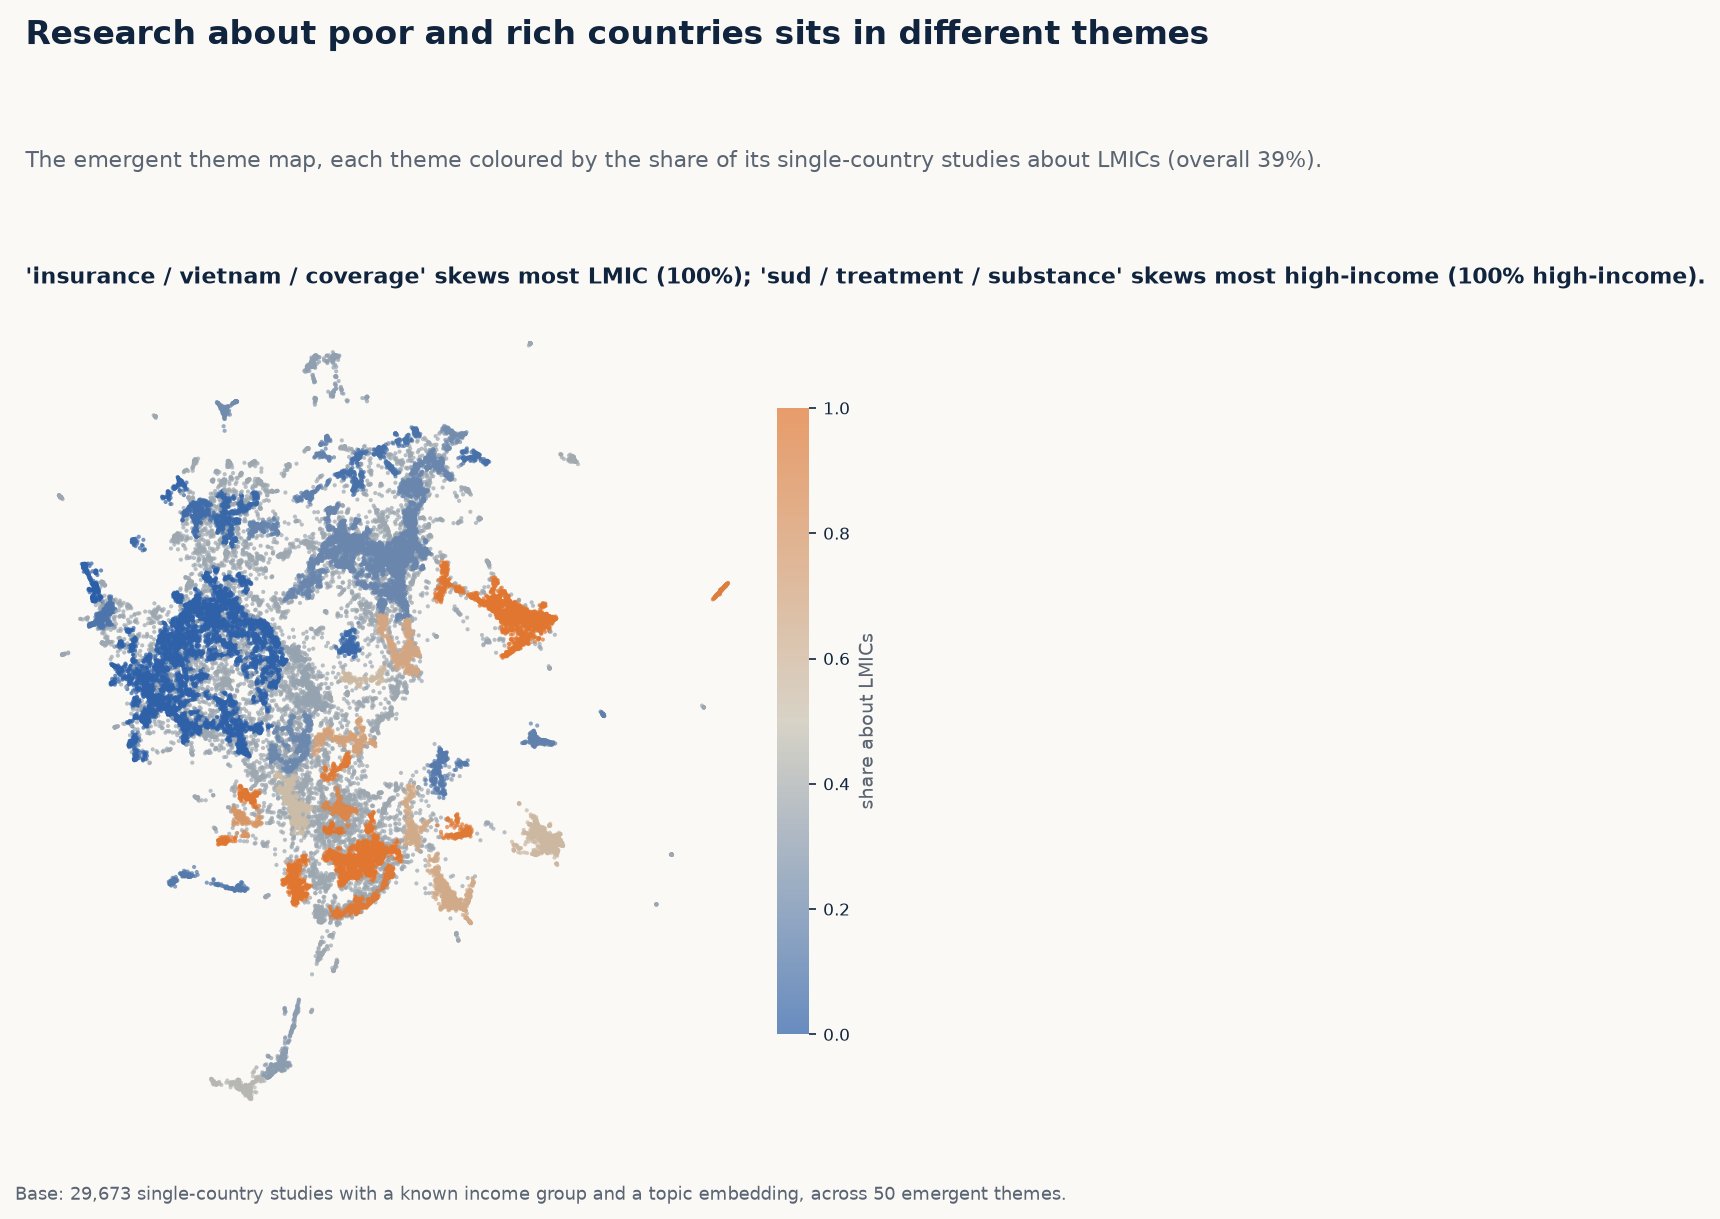
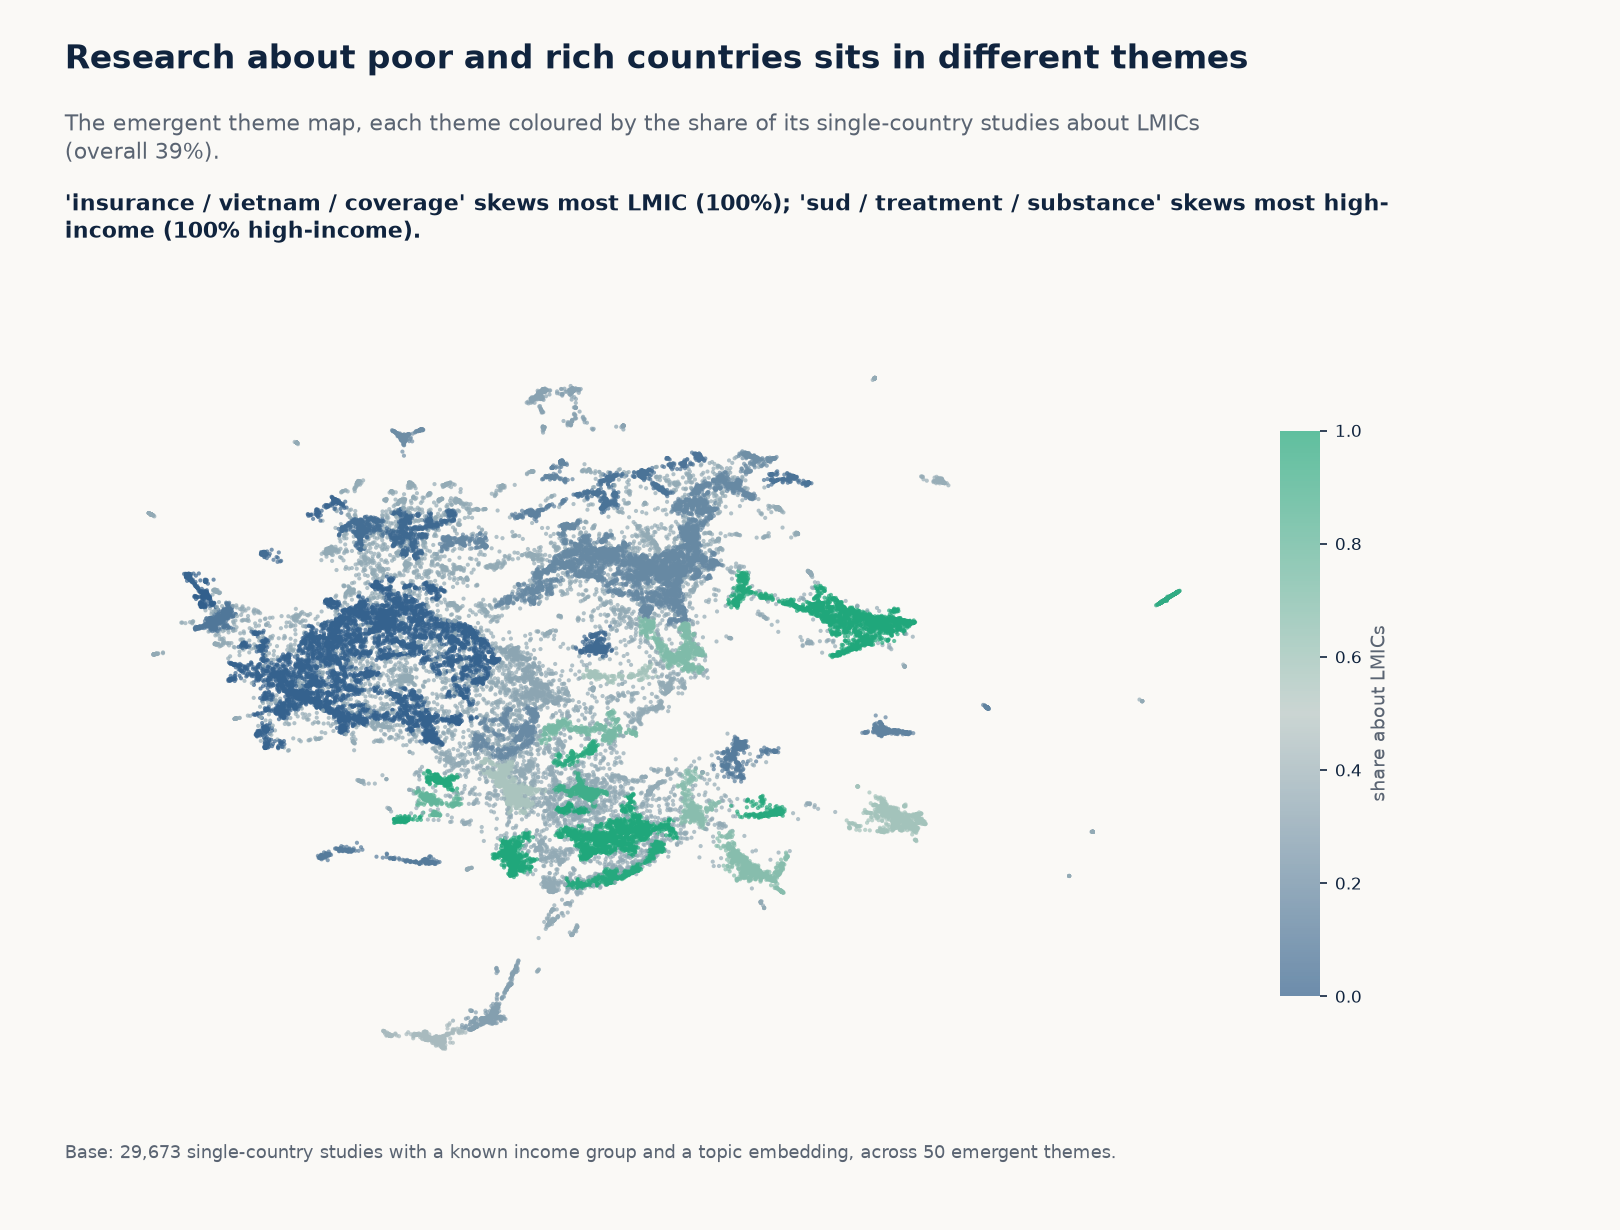
Updated notes in thematic analysis

diff --git a/docs/index.html b/docs/index.html
@@ -11,7 +11,7 @@
      versions with SHA-384 integrity hashes verified by double fetch. -->
 <link rel="stylesheet" href="https://cdn.jsdelivr.net/npm/tom-select@2.3.1/dist/css/tom-select.min.css" integrity="sha384-krui876Mk6M6Lq6uj1SQo+u4MoImxFwCfwzWNU982QBMNci3VMZ3FoYSdUakJD5I" crossorigin="anonymous">
 <link rel="stylesheet" href="https://cdn.jsdelivr.net/npm/nouislider@15.8.1/dist/nouislider.min.css" integrity="sha384-PSZaVsyG9jDu8hFaSJev5s/9poIJlX7cuxSGdqCgXRHpo2DzIaZAyCd2rG/DJJmV" crossorigin="anonymous">
-<link rel="stylesheet" href="styles.css?v=2026-10-07m">
+<link rel="stylesheet" href="styles.css?v=2026-10-07o">
 </head>
 <body>
 
@@ -668,7 +668,7 @@
 <script src="https://cdn.jsdelivr.net/npm/plotly.js-dist-min@2.35.2/plotly.min.js" integrity="sha384-cCVCZkAjYNxaYKbM8lsArLznDF/SvMFr1jcZrvOpSTCa0W40ZAdLzHCEulnUa5i7" crossorigin="anonymous"></script>
 <script src="https://cdn.jsdelivr.net/npm/tom-select@2.3.1/dist/js/tom-select.complete.min.js" integrity="sha384-cnROoUgVILyibe3J0zhzWoJ9p2WmdnK7j/BOTSWqVDbC1pVw2d+i6Q/1ESKJKCYf" crossorigin="anonymous"></script>
 <script src="https://cdn.jsdelivr.net/npm/nouislider@15.8.1/dist/nouislider.min.js" integrity="sha384-EcVTHT5RdDTvzbTIbNOtaNxNALeJYDgmv5Crp3NBmcdrCPrDnqp6I1+ETJ/FCFHI" crossorigin="anonymous"></script>
-<script type="module" src="app.js?v=2026-10-07m"></script>
+<script type="module" src="app.js?v=2026-10-07o"></script>
 
 </body>
 </html>

diff --git a/docs/app.js b/docs/app.js
@@ -1,6 +1,6 @@
 // Cache-busting build token — bump alongside index.html's ?v= query string
 // whenever app.js or the data files change.
-const BUILD = "2026-10-07m";
+const BUILD = "2026-10-07o";
 
 const CODED_COLS = ["study_design", "type_of_analysis", "data_type", "data_source",
   "unit_of_observation", "geo_scope", "era"];
@@ -855,7 +855,9 @@ if (typeof document !== "undefined") {
     const footnote = OTHER_OUTCOME_NOTE_FIGURES.has(f.file)
       ? OUTCOME_CATEGORY_NOTE
       : UNCLEAR_FOOTNOTE_SECTIONS.has(f.sectionTitle) ? UNCLEAR_FOOTNOTE : "";
-    $("fig-modal-caption").textContent = footnote ? `${f.caption} ${footnote}` : f.caption;
+    const modalCaption = $("fig-modal-caption");
+    modalCaption.hidden = !footnote;
+    modalCaption.textContent = footnote;
     $("fig-modal-specific-note").textContent = OTHER_OUTCOME_NOTE_FIGURES.has(f.file)
       ? OTHER_OUTCOME_NOTE
       : "";

diff --git a/docs/dex_hff/build_figures_v5.py b/docs/dex_hff/build_figures_v5.py
@@ -642,10 +642,6 @@ ax.plot(years, ref_line, color=SUBHEAD_COLOR, linewidth=1.4, linestyle=(0, (4, 3
 ax.text(years[int(len(years) * 0.55)], ref_line[int(len(years) * 0.55)],
         "if annual output had\nstayed at its 2010–12 rate", color=SUBHEAD_COLOR, fontsize=8.5,
         rotation=18, ha="left", va="bottom")
-ax.axvline(half_year, color="#8a8272", linewidth=0.9, linestyle=":", zorder=2)
-ax.annotate(f"half of all {total_full:,} full-year records\npublished {half_year} or later",
-            xy=(half_year, total_full * 0.5), xytext=(half_year - 0.3, total_full * 0.62),
-            fontsize=9.5, fontweight="bold", color=INK, ha="right")
 ax.plot([years[-1]], [cum[-1]], marker="o", color=ACCENT, markersize=6, zorder=4)
 ax.annotate(f"{years[-1]}\n(partial)", xy=(years[-1], cum[-1]), xytext=(-4, 8),
             textcoords="offset points", fontsize=9, color=INK, ha="right")
@@ -3320,7 +3316,7 @@ if have_topics:
     cluster_lmic_share = known_ti.groupby("cluster")["income"].apply(lambda s: (s != "High income").mean())
     overall_lmic_share = (known_ti["income"] != "High income").mean()
 
-    ti_cmap = mcolors.LinearSegmentedColormap.from_list("ti", ["#2a5ea8", "#c9c3b3", "#e0752f"])
+    ti_cmap = mcolors.LinearSegmentedColormap.from_list("ti", ["#315f8c", "#b8c7c5", "#1fa77a"])
     ti_norm = mcolors.Normalize(vmin=0, vmax=1)
     point_lmic = topic_map_ti["cluster"].map(cluster_lmic_share)
     colored_pts = topic_map_ti[point_lmic.notna()]
@@ -3332,28 +3328,40 @@ if have_topics:
     most_lmic_label = topic_labels.loc[most_lmic_cluster, "label"]
     most_hic_label = topic_labels.loc[most_hic_cluster, "label"]
 
-    fig, ax = plt.subplots(figsize=(9.5, 8))
+    fig = plt.figure(figsize=(10.8, 8.2))
+    ax = fig.add_axes([0.06, 0.12, 0.70, 0.60])
     ax.scatter(grey_pts["x"], grey_pts["y"], s=3, color=GREY, alpha=0.25, linewidths=0, zorder=2)
     sc = ax.scatter(colored_pts["x"], colored_pts["y"], s=4, c=colored_vals, cmap=ti_cmap, norm=ti_norm,
                      alpha=0.7, linewidths=0, zorder=3)
-    cb = fig.colorbar(sc, ax=ax, fraction=0.04, pad=0.02)
+    colorbar_ax = fig.add_axes([0.79, 0.19, 0.025, 0.46])
+    cb = fig.colorbar(sc, cax=colorbar_ax)
     cb.set_label("share about LMICs", fontsize=9, color=SUBHEAD_COLOR)
     cb.ax.tick_params(labelsize=8)
     cb.outline.set_visible(False)
-    set_headline(ax, "Research about poor and rich countries sits in different themes",
-                 f"The emergent theme map, each theme coloured by the share of its single-country studies "
-                 f"about LMICs (overall {overall_lmic_share:.0%}).",
-                 f"'{most_lmic_label}' skews most LMIC ({cluster_lmic_share[most_lmic_cluster]:.0%}); "
-                 f"'{most_hic_label}' skews most high-income "
-                 f"({1 - cluster_lmic_share[most_hic_cluster]:.0%} high-income).",
-                 "fig_topicmap_income.png")
+    ti_headline = "Research about poor and rich countries sits in different themes"
+    ti_desc = (f"The emergent theme map, each theme coloured by the share of its single-country studies "
+               f"about LMICs (overall {overall_lmic_share:.0%}).")
+    ti_finding = (f"'{most_lmic_label}' skews most LMIC "
+                  f"({cluster_lmic_share[most_lmic_cluster]:.0%}); '{most_hic_label}' skews most high-income "
+                  f"({1 - cluster_lmic_share[most_hic_cluster]:.0%} high-income).")
+    FIG_META["fig_topicmap_income.png"] = (ti_headline, ti_desc, ti_finding)
+    fig.text(0.04, 0.965, D(ti_headline), fontsize=16, fontweight="bold",
+             color=INK, ha="left", va="top")
+    fig.text(0.04, 0.91, D("\n".join(textwrap.wrap(ti_desc, width=105))),
+             fontsize=10.5, color=SUBHEAD_COLOR, ha="left", va="top", linespacing=1.25)
+    fig.text(0.04, 0.845, D("\n".join(textwrap.wrap(ti_finding, width=105))),
+             fontsize=10.5, fontweight="bold", color=INK, ha="left", va="top",
+             linespacing=1.25)
     ax.set_xticks([]); ax.set_yticks([])
     for spine in ax.spines.values():
         spine.set_visible(False)
-    set_footnote(fig, f"Base: {len(known_ti):,} single-country studies with a known income group and a topic "
-                       f"embedding, across {len(cluster_lmic_share)} emergent themes.")
-    fig.tight_layout()
-    fig.savefig(FIGS / "fig_topicmap_income.png", dpi=150, bbox_inches="tight")
+    fig.text(0.04, 0.055,
+             f"Base: {len(known_ti):,} single-country studies with a known income group and a topic "
+             f"embedding, across {len(cluster_lmic_share)} emergent themes.",
+             fontsize=8.5, color=SUBHEAD_COLOR, ha="left", va="bottom")
+    fig.patch.set_facecolor(PAPER)
+    ax.set_facecolor(PAPER)
+    fig.savefig(FIGS / "fig_topicmap_income.png", dpi=150)
     plt.close(fig)
 
 # ---------------------------------------------------------------------------
@@ -3751,7 +3759,10 @@ if have_taxonomy:
         cnt = disease_income[d]
         tot = sum(cnt.values())
         fc_lmic.append(100 * (tot - cnt.get("High income", 0)) / tot if tot else 50.0)
-    skew_cmap = mcolors.LinearSegmentedColormap.from_list("skew", ["#2a5ea8", "#c9c3b3", "#e0752f"])
+    skew_cmap = mcolors.LinearSegmentedColormap.from_list(
+        "skew",
+        ["#315f8c", "#b8c7c5", "#1fa77a"],
+    )
     skew_norm = mcolors.Normalize(vmin=0, vmax=100)
     fc_colors = [skew_cmap(skew_norm(v)) for v in fc_lmic]
 
@@ -5205,14 +5216,14 @@ for f in sorted(FIGS.glob("*.png")):
 gallery = [
     {
         "title": "Size & growth",
-        "blurb": f"How much research is there? {N:,} records in the {SOURCE_NAME} (2010–2026).",
+        "blurb": "See how the health financing evidence base has grown since 2010 and how quickly new "
+                 "research is being published.",
         "figs": [fig_entry("fig_growth.png", "Cumulative growth")],
     },
     {
         "title": "Financing functions & outcomes",
-        "blurb": "The core classification: which health-financing function(s) each study addresses, "
-                 "and which health-system outcome domain(s) it investigates. A study can carry more "
-                 "than one of each, so it is counted in every one it's tagged with.",
+        "blurb": "Explore which parts of health financing are studied most, which outcomes they are linked "
+                 "to, and where important evidence gaps remain.",
         "figs": [
             fig_entry("fig_function_bar.png", "Financing function"),
             fig_entry("fig_function_time.png", "Financing-function mix over time"),
@@ -5224,10 +5235,8 @@ gallery = [
     },
     {
         "title": "Topics & themes",
-        "blurb": "What the research is actually about, beyond the financing-function labels: an "
-                 "OpenAlex-style field/subfield taxonomy, plus an emergent theme model over the "
-                 "abstract text (sentence embeddings → UMAP → HDBSCAN) — the same "
-                 "techniques HEE used for its topic-landscape figures.",
+        "blurb": "Discover the health issues, disease areas and wider research themes covered by the "
+                 "evidence, including which topics receive the most or least attention.",
         "figs": (
             [fig_entry("fig_topic_landscape.png", "Topic landscape"),
              fig_entry("fig_topic_landscape_treemap.png", "Topic landscape (treemap)"),
@@ -5249,8 +5258,8 @@ gallery = [
     } if (have_topics or have_taxonomy) else None,
     {
         "title": "Methods & data",
-        "blurb": "How the research was done: study design, whether the analysis is quantitative, "
-                 "qualitative or mixed, and what kind of data it draws on.",
+        "blurb": "See how studies were designed, whether they used quantitative, qualitative or mixed "
+                 "methods, and what kinds of data they analysed.",
         "figs": [
             fig_entry("fig_design_bar.png", "Study design"),
             fig_entry("fig_analysis_bar.png", "Type of analysis"),
@@ -5260,8 +5269,8 @@ gallery = [
     },
     {
         "title": "Geography",
-        "blurb": f"Where the research is about. {n_countries} countries are named in the extracted "
-                 f"geography.",
+        "blurb": "Explore where health financing research is concentrated, how coverage differs between "
+                 "countries and income groups, and where evidence remains limited.",
         "figs": [
             fig_entry("fig_top_countries.png", "Top 20 countries"),
             fig_entry("fig_income_bar.png", "Study-country pairs by income group"),
@@ -5306,10 +5315,8 @@ gallery = [
     },
     {
         "title": "Global financing context",
-        "blurb": "The real-world backdrop for the Revenue Raising financing function: how much "
-                 "development assistance for health (DAH) actually flows, who provides it, and how "
-                 "unequally countries fund their own health spending. Source: IHME, Financing Global "
-                 "Health 2025: Cuts in Aid and Future Outlook.",
+        "blurb": "Compare the research landscape with global health financing trends, including development "
+                 "assistance, national health spending and differences between countries.",
         "figs": (
             [
                 fig_entry("fig_dah_trend.png", "Development assistance for health, 1990–2030"),
@@ -5336,9 +5343,8 @@ gallery = [
     } if have_ihme else None,
     {
         "title": "Pipeline",
-        "blurb": f"What the {SOURCE_NAME} file contains — from classification to DOI and "
-                 "topic-theme recovery. See the Methods tab for the full stage-by-stage "
-                 "funnel and what each stage means.",
+        "blurb": "Understand what information is available for the studies in this map and how completely "
+                 "key details, publication links and research themes were identified.",
         "figs": [fig_entry("fig_funnel.png", "Pipeline funnel")],
     },
 ]
